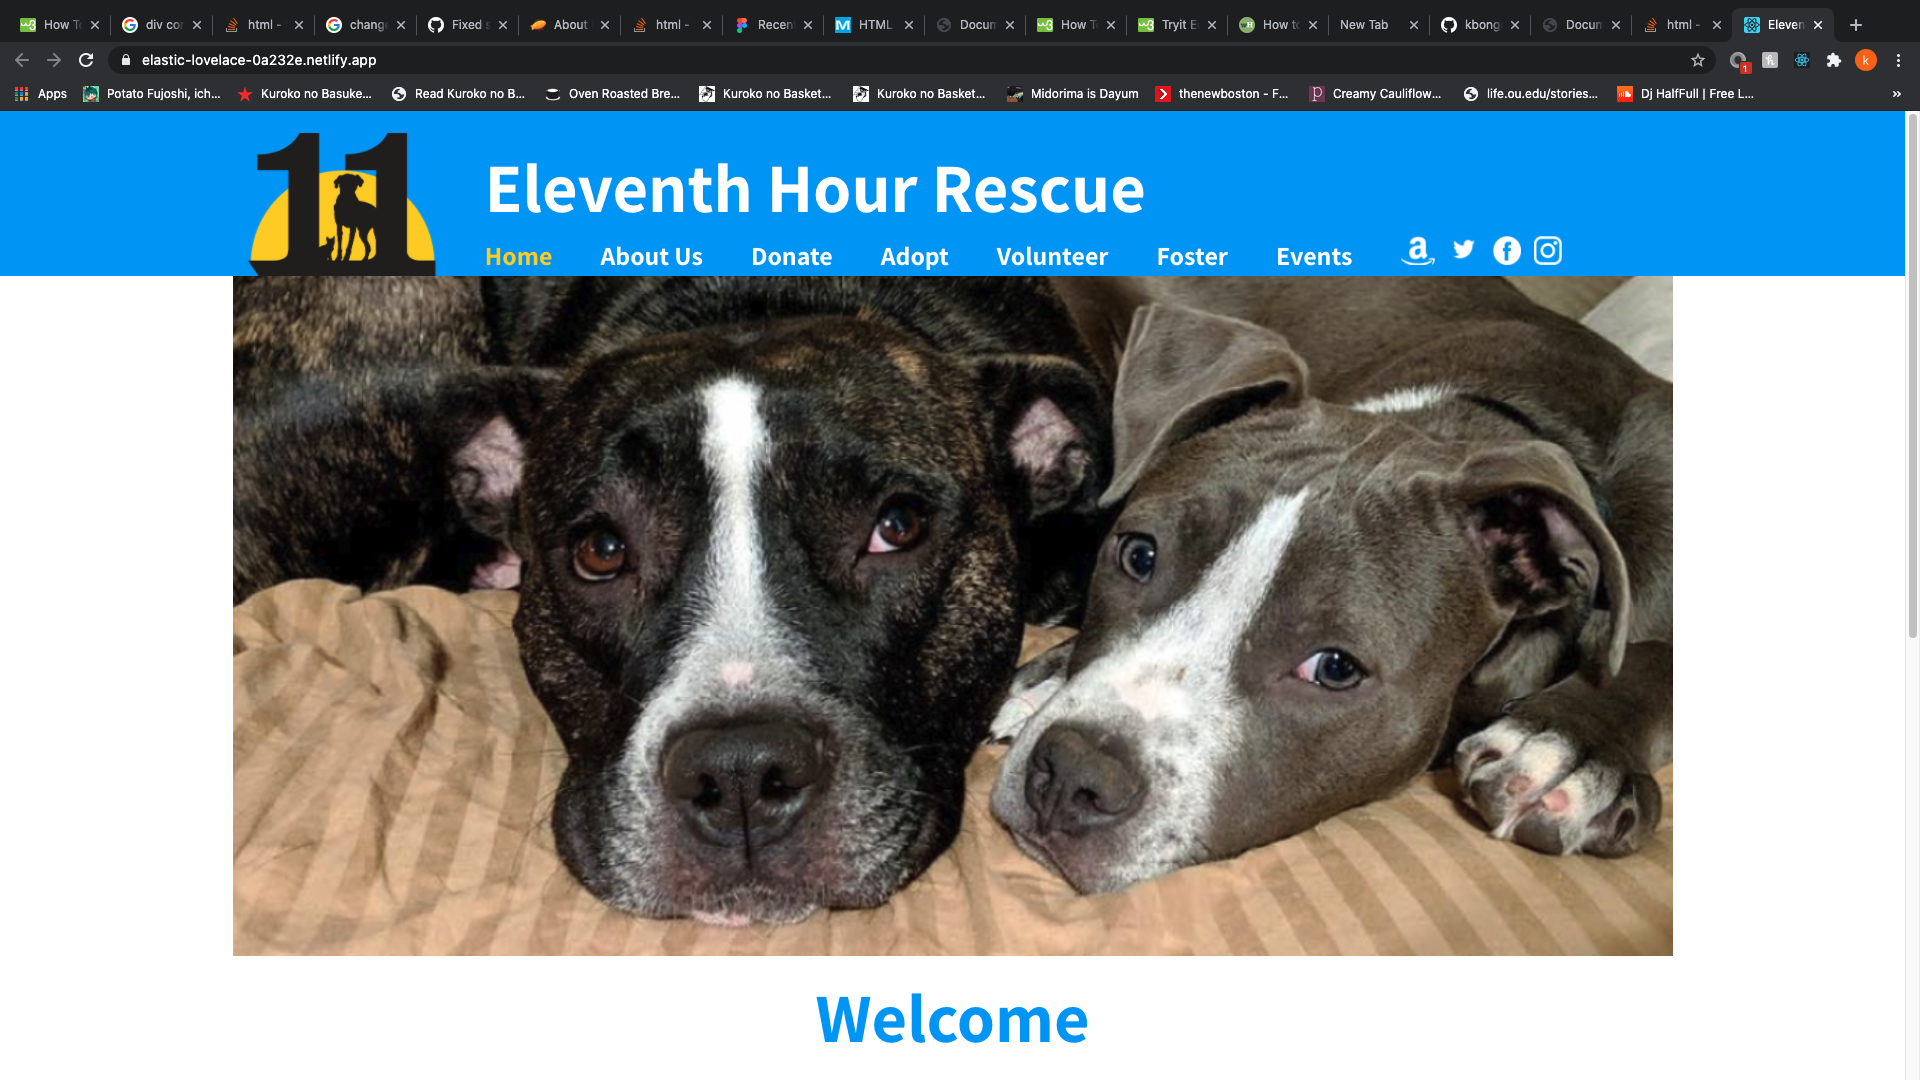
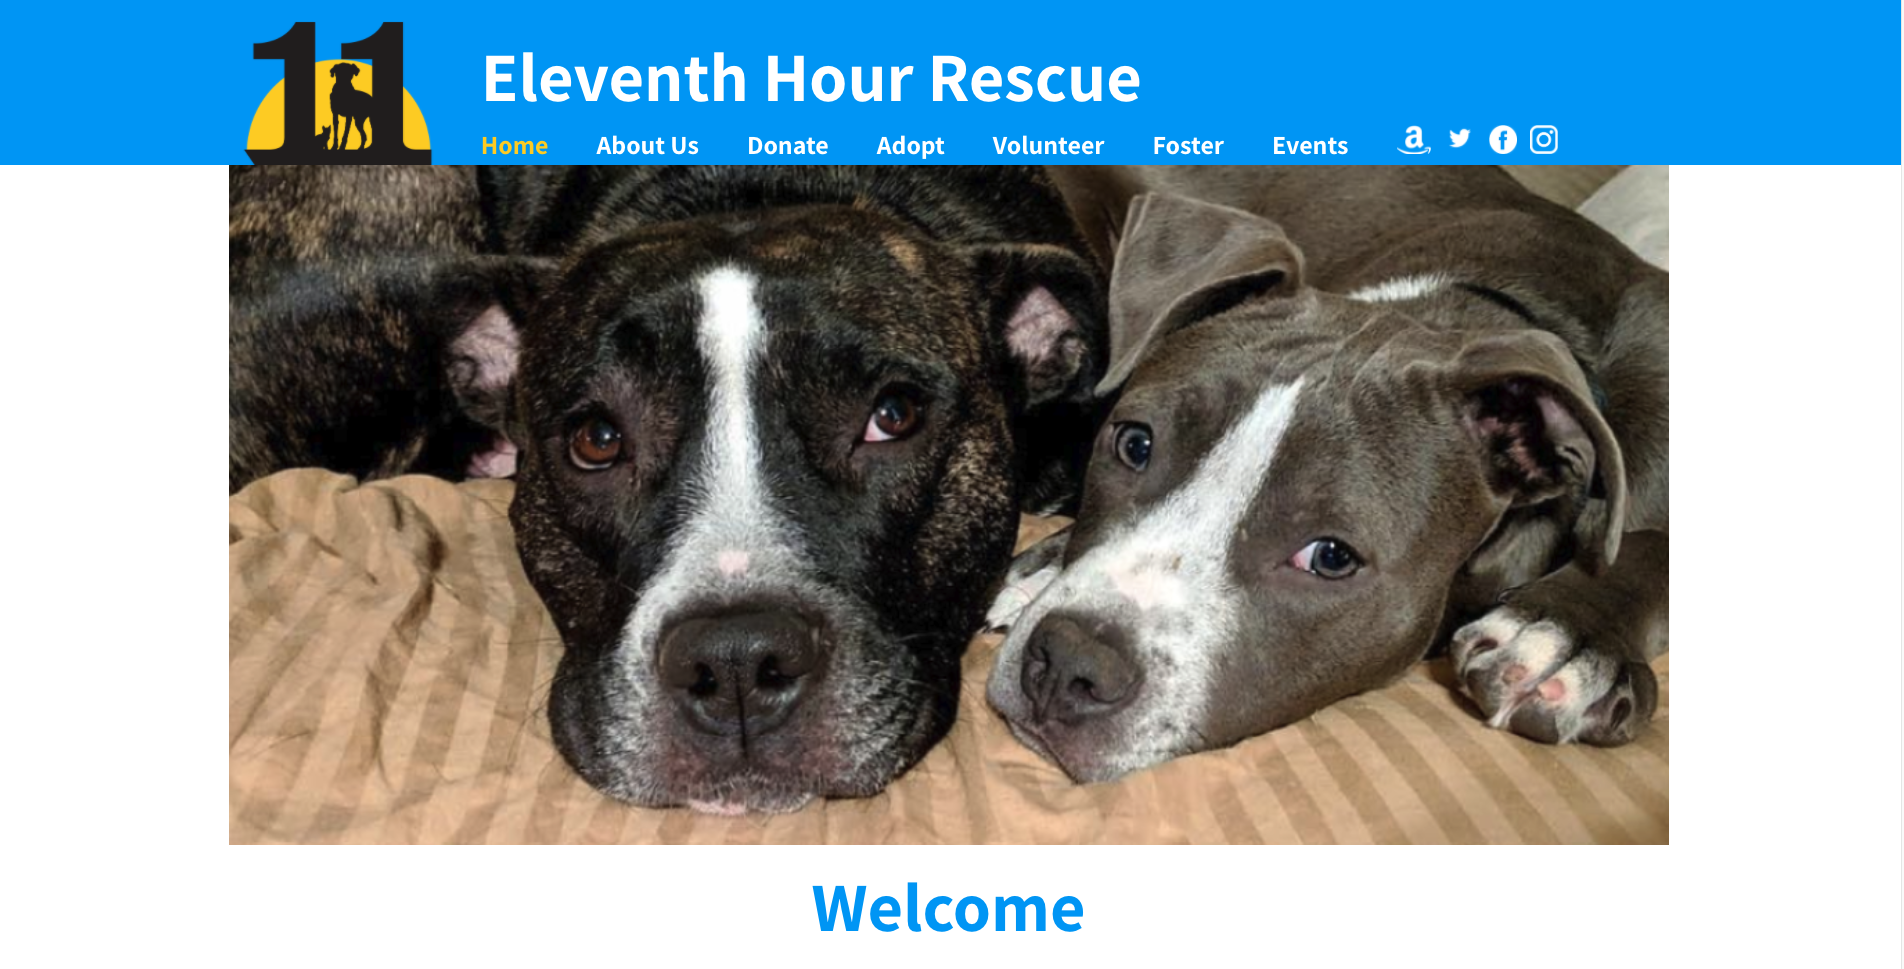
fixed

diff --git a/index.html b/index.html
@@ -5,7 +5,7 @@
     <meta name="viewport" content="width=device-width, initial-scale=1.0" />
     <link rel="stylesheet" href="app.css" />
     <link
-      href="https://fonts.googleapis.com/css2?family=Do+Hyeon&display=swap"
+      href="https://fonts.googleapis.com/css2?family=Roboto&display=swap"
       rel="stylesheet"
     />
     <script src="https://unpkg.com/axios/dist/axios.min.js"></script>
@@ -92,7 +92,7 @@
       </div>
     </div>
     <div class="projects" id="fun-projects">
-      <h2>Here are some projects I worked on and collaborated on</h2>
+      <h2>Here are some projects I worked and collaborated on</h2>
       <h3>Other fun projects/code things also be found on my <a href='http://github.com/kbongco'>Github</a></h3>
       <div class="projectcontainer">
         <div class="rhy-image">

diff --git a/app.css b/app.css
@@ -176,7 +176,7 @@ footer{
   margin-top: -20px;
 }
 
-@media only screen and (max-width: 768px){
+@media only screen and (max-width: 768px) and (min-width:320px){
   header {
     position: absolute;
     width: 100%;
@@ -201,6 +201,7 @@ footer{
     top: 0; 
   }
 
+
   #nav a:hover{
     background-color: #ddd;
     color: black;
@@ -211,6 +212,6 @@ footer{
   textarea{
     resize: none;
     height: 100px;
-    width: 350px;
+    width: 250px;
   }
 }

diff --git a/index.js b/index.js
@@ -4,6 +4,7 @@ const blogPosts = (blogs) => {
   blogs.forEach((blog) => {
     let blogEntrydiv = document.createElement('div')
     let blogTitle = document.createElement('h5')
+    let blogLink = document.createElement('a')
     blogTitle.innerText = blog.title
     blogEntrydiv.appendChild(blogTitle)
     document.querySelector('.blog-container').append(blogEntrydiv)
